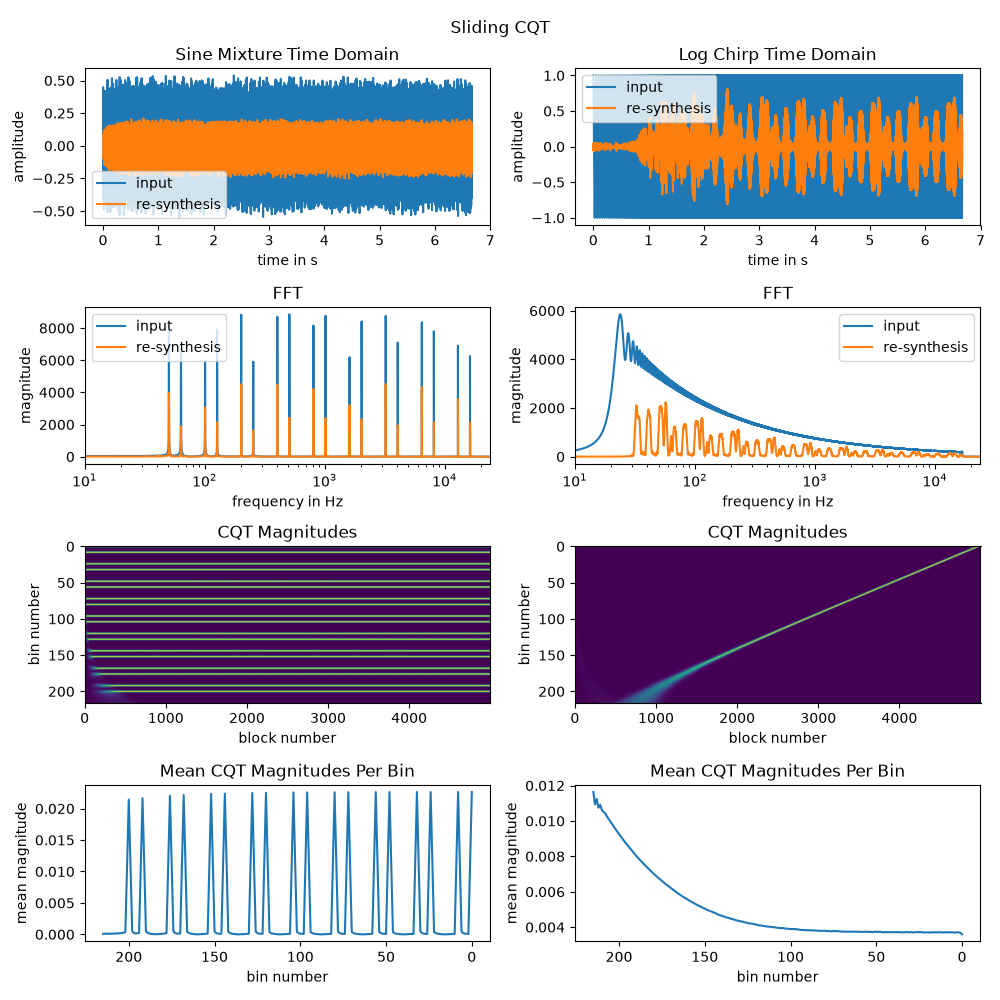
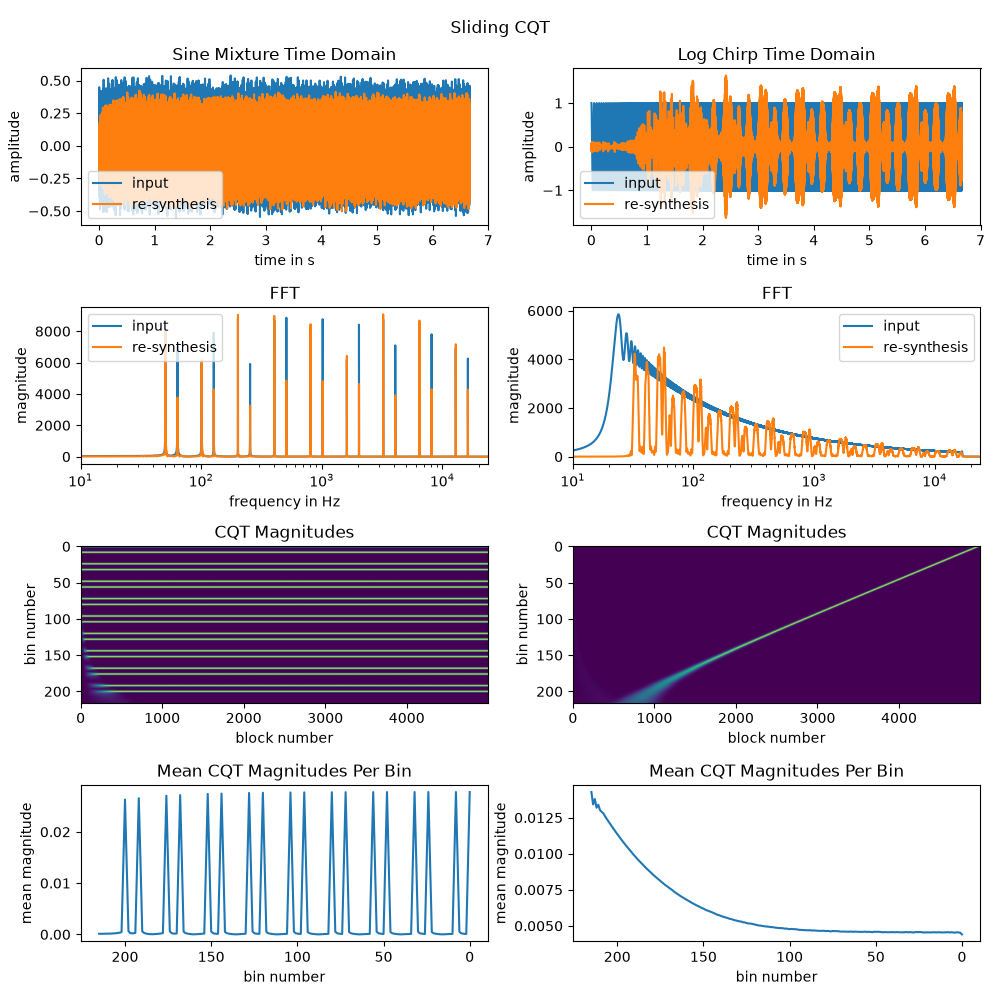
Fix normalization of sliding cqt

diff --git a/tests/cqt_integration_tests.cpp b/tests/cqt_integration_tests.cpp
@@ -91,6 +91,60 @@ void testSlidingCqtBatchedInput()
     }
 }
 
+template <bool Windowing>
+void testSlidingCqtAmplitudeNormalization()
+{
+    constexpr int BlockSize = 64;
+    constexpr int BlockCount = 512;
+    constexpr double Samplerate = 48000.;
+    constexpr int Tone = 8;
+    const double frequency = Cqt::computeBinFrequency(
+        Cqt::computeReferenceFrequency(440.), 24, 0, Tone);
+
+    Cqt::SlidingCqt<24, 9, Windowing> cqt;
+    cqt.init(Samplerate, BlockSize);
+
+    std::vector<double> output(
+        static_cast<std::size_t>(BlockSize * BlockCount), 0.);
+    double magnitudeSum = 0.;
+    int magnitudeCount = 0;
+    for (int blockIndex = 0; blockIndex < BlockCount; ++blockIndex)
+    {
+        std::vector<double> input =
+            makeSineBlock(BlockSize, blockIndex, Samplerate, frequency);
+        cqt.inputBlock(input.data(), BlockSize);
+
+        if (blockIndex >= (BlockCount / 2) && cqt.getSamplesToProcess(0) > 0)
+        {
+            magnitudeSum += std::abs(
+                cqt.getOctaveCqtBuffer(0)[Tone].pullDelaySample(0));
+            ++magnitudeCount;
+        }
+
+        const double *const outputBlock = cqt.outputBlock(BlockSize);
+        std::copy_n(
+            outputBlock,
+            BlockSize,
+            output.data() + static_cast<std::size_t>(blockIndex * BlockSize));
+    }
+
+    const double coefficientMagnitude =
+        magnitudeSum / static_cast<double>(magnitudeCount);
+    require(
+        std::abs(coefficientMagnitude - 0.5) < 1.e-3,
+        "Sliding CQT coefficient normalization is incorrect: " +
+            std::to_string(coefficientMagnitude));
+
+    const double reconstructedAmplitude =
+        measureToneAmplitude(output, output.size() / 2, Samplerate, frequency);
+    const double minimumAmplitude = Windowing ? 0.9 : 0.75;
+    require(
+        reconstructedAmplitude > minimumAmplitude &&
+            reconstructedAmplitude < 1.1,
+        "Sliding CQT resynthesis normalization is incorrect: " +
+            std::to_string(reconstructedAmplitude));
+}
+
 void testConstantCqtBatchedSchedule()
 {
     constexpr int BlockSize = 64;
@@ -188,6 +242,10 @@ int main()
     {
         testSlidingCqtBatchedInput();
         std::cout << "[pass] sliding CQT batched input\n";
+        testSlidingCqtAmplitudeNormalization<false>();
+        std::cout << "[pass] rectangular sliding CQT amplitude normalization\n";
+        testSlidingCqtAmplitudeNormalization<true>();
+        std::cout << "[pass] windowed sliding CQT amplitude normalization\n";
         testConstantCqtBatchedSchedule();
         std::cout << "[pass] constant CQT batched schedule\n";
         testConstantCqtHighFrequencyResynthesis();

diff --git a/include/SlidingCqt.h b/include/SlidingCqt.h
@@ -78,7 +78,15 @@ namespace Cqt
         audio_utils::CircularBuffer<std::complex<double>> mCqtData[OctaveNumber][B];
 
         // Windowing
-        static constexpr double mWindowEnergyLossCompensation{1.63};
+        // A periodic Hann window has a coherent gain of 1/2. The analysis
+        // normalization therefore keeps its bin-centred amplitudes consistent
+        // with the rectangular transform. The remaining 4/3 synthesis factor
+        // complements it to the Hann energy normalization 1 / mean(w^2) = 8/3.
+        static constexpr double mWindowAnalysisNormalization{2.};
+        static constexpr double mWindowSynthesisNormalization{4. / 3.};
+        // Only the positive-frequency coefficients are stored. Restore the
+        // conjugate half when producing a real signal.
+        static constexpr double mRealSynthesisNormalization{2.};
         static constexpr double mWindowCoeffs[3] = {0.5, -0.25, -0.25};
         static constexpr double mQAdd[3] = {0., -1., 1};
 
@@ -250,7 +258,8 @@ namespace Cqt
 
                             FtSum += mWindowCoeffs[i_window] * Ft;
                         }
-                        mInputFtBuffer[i_octave][i_tone][i_sample] = FtSum * mWindowEnergyLossCompensation;
+                        mInputFtBuffer[i_octave][i_tone][i_sample] =
+                            FtSum * mWindowAnalysisNormalization;
                     }
                 }
             }
@@ -290,9 +299,10 @@ namespace Cqt
                 {
                     mOutputSamplesBuffer[i_octave][i_sample] += mOutputSamplesTonesBuffer[i_octave][i_tone][i_sample];
                 }
+                mOutputSamplesBuffer[i_octave][i_sample] *= mRealSynthesisNormalization;
                 if constexpr (Windowing)
                 {
-                    mOutputSamplesBuffer[i_octave][i_sample] *= mWindowEnergyLossCompensation;
+                    mOutputSamplesBuffer[i_octave][i_sample] *= mWindowSynthesisNormalization;
                 }
             }
 

diff --git a/README.md b/README.md
@@ -89,7 +89,10 @@ ctest --test-dir build --output-on-failure
 
 ## Limitations and Future Work
 * While the Polyphase IIR lowpasses are cheap, they distort the phase of the signal. For future, a linear phase approach could be added.
-* Amplitudes in CQT domain, as well as for the re-synthesized signal for Sliding CQT are quite low, especially when using the windowed version. WIP to find out why and how to fix it.
+* Sliding CQT analysis and one-sided synthesis amplitudes are normalized. Its
+  resynthesis still follows the original transform's inexpensive approximate
+  inverse, so gain and phase ripple remain between CQT bin centres. A canonical
+  dual synthesis filterbank would be required for perfect reconstruction.
 
 ## Current Status Illustration
 
@@ -104,5 +107,4 @@ For illustration of the current status, python binds are used to create some plo
 ![alt text](python-bindings/examples/illustration_cqt.png)
 
 ![alt text](python-bindings/examples/illustration_sliding_cqt.png)
-
 
